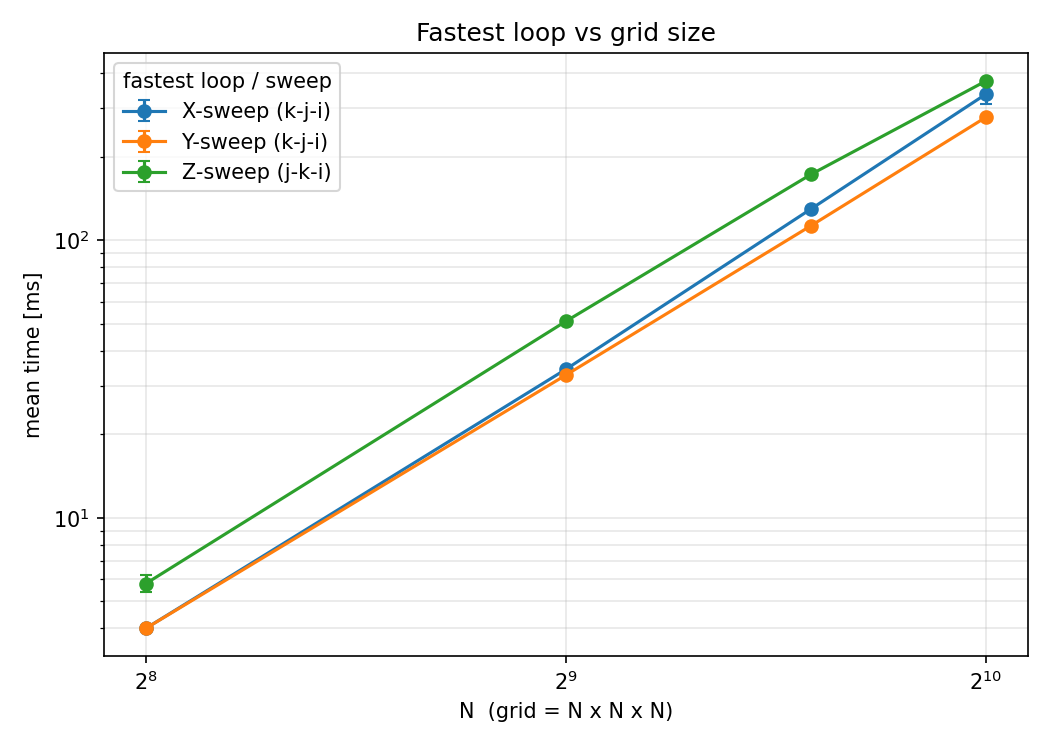
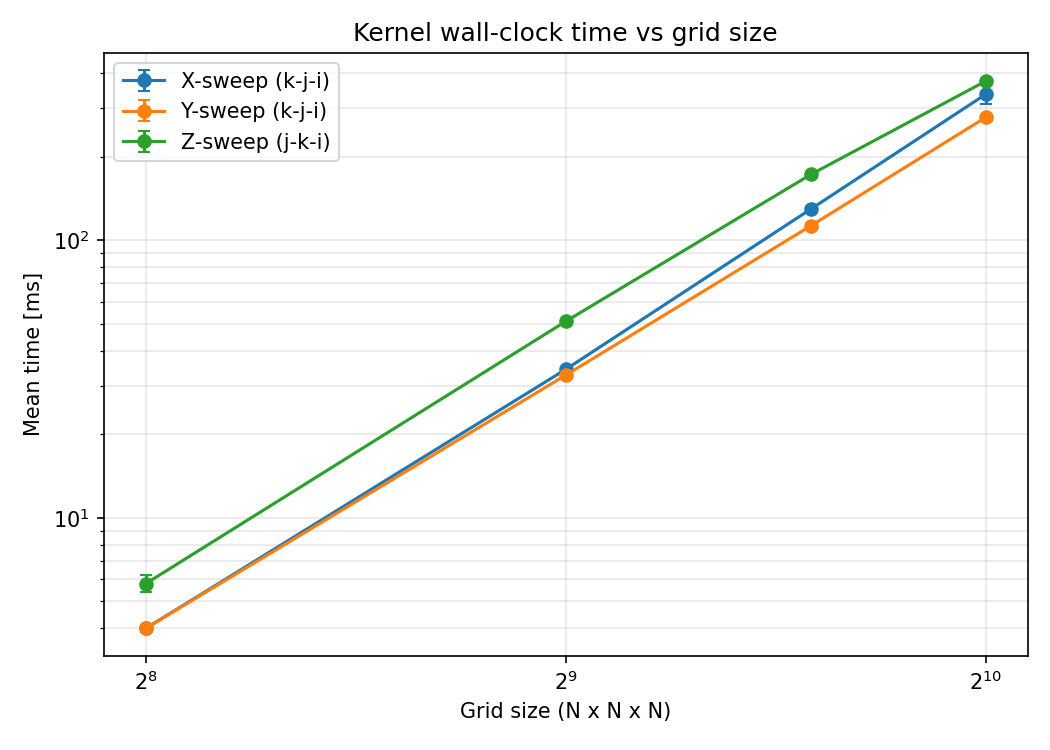
updated readme and plots

diff --git a/benchmarks/strided_access/results/plot_fastest_per_sweep.py b/benchmarks/strided_access/results/plot_fastest_per_sweep.py
@@ -78,13 +78,13 @@ def main():
         ax.errorbar(Ns, means, yerr=stds, marker="o", capsize=3,
                     label=f"{sweep} ({REPRESENTATIVE[sweep]})")
 
-    ax.set_xlabel("N  (grid = N x N x N)")
-    ax.set_ylabel("mean time [ms]")
+    ax.set_xlabel("Grid size (N x N x N)")
+    ax.set_ylabel("Mean time [ms]")
     ax.set_xscale("log", base=2)
     ax.set_yscale("log")
     ax.grid(True, which="both", alpha=0.3)
-    ax.legend(title="fastest loop / sweep")
-    ax.set_title("Fastest loop vs grid size")
+    ax.legend()
+    ax.set_title("Kernel wall-clock time vs grid size")
     fig.tight_layout()
     out = os.path.join(HERE, "grid_sensitivity.png")
     fig.savefig(out, dpi=150)

diff --git a/benchmarks/strided_access/README.md b/benchmarks/strided_access/README.md
@@ -109,7 +109,14 @@ with 64 bytes cache line (getconf LEVEL1_DCACHE_LINESIZE).
 
 The code is compiled with optimization level 3 (O3) and with -march=native in order to enable AVX512 
 instructions.
-All the kernels are run by pinning to a thread (taskset -c 2 ./strided_access) in performance mode.
+All the kernels are run by pinning to a thread (`taskset -c 2 ./strided_access`) in performance mode
+(`sudo cpupower frequency-set -g performance`). When reported, the performance counters are collected
+by running `perf stat` on the `strided_access` executable as
+`sudo taskset -c 2 perf stat -e dTLB-load-misses,dTLB-loads,L1-dcache-load-misses,LLC-load-misses,cycles,instructions,task-clock ./build/benchmarks/strided_access/strided_access`.
+As a consequence the `perf stat` measures the performance of the `perf` library in
+addition to the performance of the measured kernels. Hence, while the performance counters are
+directionally correct, there can be some discrepancies between 
+the counters and the measured wall-clock time. Future work will address these discrepancies.
 Unless otherwise specified, the grid size is Nx=Ny=Nz=1024.
 
 
@@ -375,8 +382,8 @@ as reported in the performance counters below (`perf stat -e dTLB-load-misses,dT
 | LLC-load-misses | 838,097,720 | 11,493,452,229 |
 
 As mentioned, the inner-loop asm of these two kernels is identical (20 vpgatherqd/kxnorw each). The outer
-loops differ slightly with some register spilling in one case, so that the instructions per cycle differ by 
-approximately 0.6%. However, while the `k-i-j` has only 0.06% page misses, the `i-k-j` loop has ~43% page misses
+loops differ slightly with some register spilling in one case, so that the instruction count differs
+approximately by 0.6%. However, while the `k-i-j` has only 0.06% page misses, the `i-k-j` loop has ~43% page misses
 because of the 4MB-stride `k` loop, so that the latter kernel has significantly degraded performance (~3x)
 despite slightly better L1 cache misses.
 
@@ -741,4 +748,27 @@ While we performed the comparison on only one kernel,
 the experiment essentially confirms the zero cost of the `std::mdspan` abstraction, at least for the `layout_left`
 tested in this work.
 
+### Grid size sensitivity
+In this section we investigate the performance of the fastest loop ordering for each sweep direction
+ (as determined from the asm listings above) as a function of grid size. 
+![Kernel mean time as a function of grid size for each sweep direction](results/grid_sensitivity.png)
+Because at low grid sizes (N=16-128) the grids fits almost entirely in L1-L3 cache, at the time
+of this writing the `perf` librariy does not have enough temporal resolution 
+to accurately measure the performance of the different kernels. For bigger grids (N > 256) the
+perforamance of the kernels is linear in the number of grid points. The Z sweep has the worse performance 
+of the 3 kernels. This is because every time a memory stream is phased out, the next one has to be
+fetched from memory that is 4 Mb away. The X and Y sweeps initially have almost identical performance
+but the perforance of the X sweep degrades for bigger grids so that at the biggest grid size tested 
+(N = 1024) the Y sweep is actually faster than the the X sweep.
+
 ### Conclusions
+In this work we investigated the performance of different computational kernels representative of
+directionally-split, 5-point WENO schemes. By studying the asm code of the different kernels, we
+demonstrated how their performance heavily depends on their memory access pattern 
+(cache, TLB reuse). However, for memory efficient loops, vectorization and instruction overhead 
+are again relevant.
+Future work will focus on improving
+the performance of the `X-sweep k-j-i` scheme by performing 5 unaligned loads at every `i` iteration,
+on exploring tiled memory-access approaches and 
+on improving the `perf` library via increased temporal resolution and direct gethering of 
+the performance counters.

diff --git a/README.md b/README.md
@@ -9,3 +9,4 @@ Each benchmark lives in its own subdirectory under `benchmarks/`, with a write-u
 | Benchmark | Question | Key finding |
 |---|---|---|
 | [indirect_access](benchmarks/indirect_access) | What is the cost of an indirect memory access patter representative of unstructured CFD solvers, and what optimizations help (prefetch, SIMD) help? | On my Intel i5 CPU with clang21 the auto vectorization results in similar assembly to the hand vectorized code. SW prefetch gives ~3% on scalar at optimal distance at the cost of vectorization; no benefit from prefetching for AVX-512 gather; effect is governor- and distribution-dependent. |
+| [indirect_access](benchmarks/strided_access) | What is the cost of a strided memory access pattern representative of directionally-split 5-point WENO schemses, and what is the role of loop ordering and compiler optimizations? |  |
